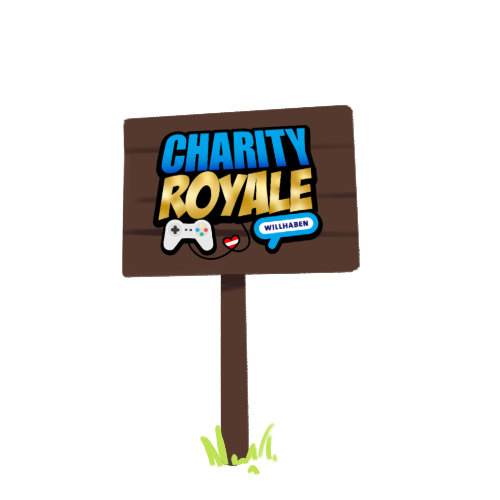
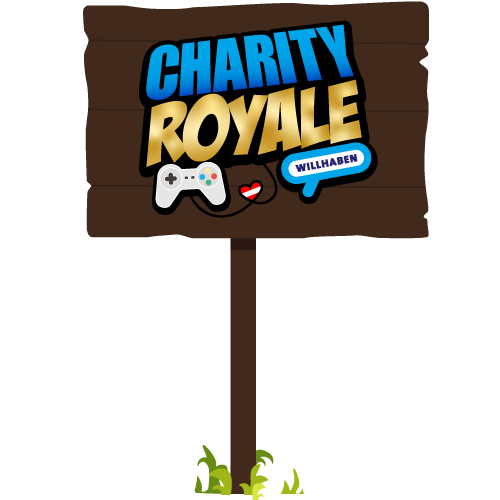
update sign asset

diff --git a/applications/frontend/src/app/components/overlay/game/scenes/OverlayScene.ts b/applications/frontend/src/app/components/overlay/game/scenes/OverlayScene.ts
@@ -215,11 +215,11 @@ export class OverlayScene extends Phaser.Scene {
 
 		const coinGroup = this.add.group([], { key: 'coin' })
 
+		const sign = new Sign(this, -195, -15, signKey)
 		const pig = new Pig(this, { x: 0, y: 0, texture: pigAtlasKey, pigLaugh }, initialState.character, coinGroup)
-		const sign = new Sign(this, -195, 0, signKey)
 
 		this.pigWithSignContainer = new Container(this, initialState.character, socket, {
-			children: [pig, sign],
+			children: [sign, pig],
 		})
 		this.input.setDraggable(this.pigWithSignContainer)
 

diff --git a/applications/frontend/src/app/components/overlay/game/gameConfig.ts b/applications/frontend/src/app/components/overlay/game/gameConfig.ts
@@ -13,7 +13,7 @@ export const gameConfig = {
 	physics: {
 		default: 'arcade',
 		arcade: {
-			debug: true,
+			debug: false,
 			enabled: true,
 			gravity: { y: 1000 },
 			showBody: true,
